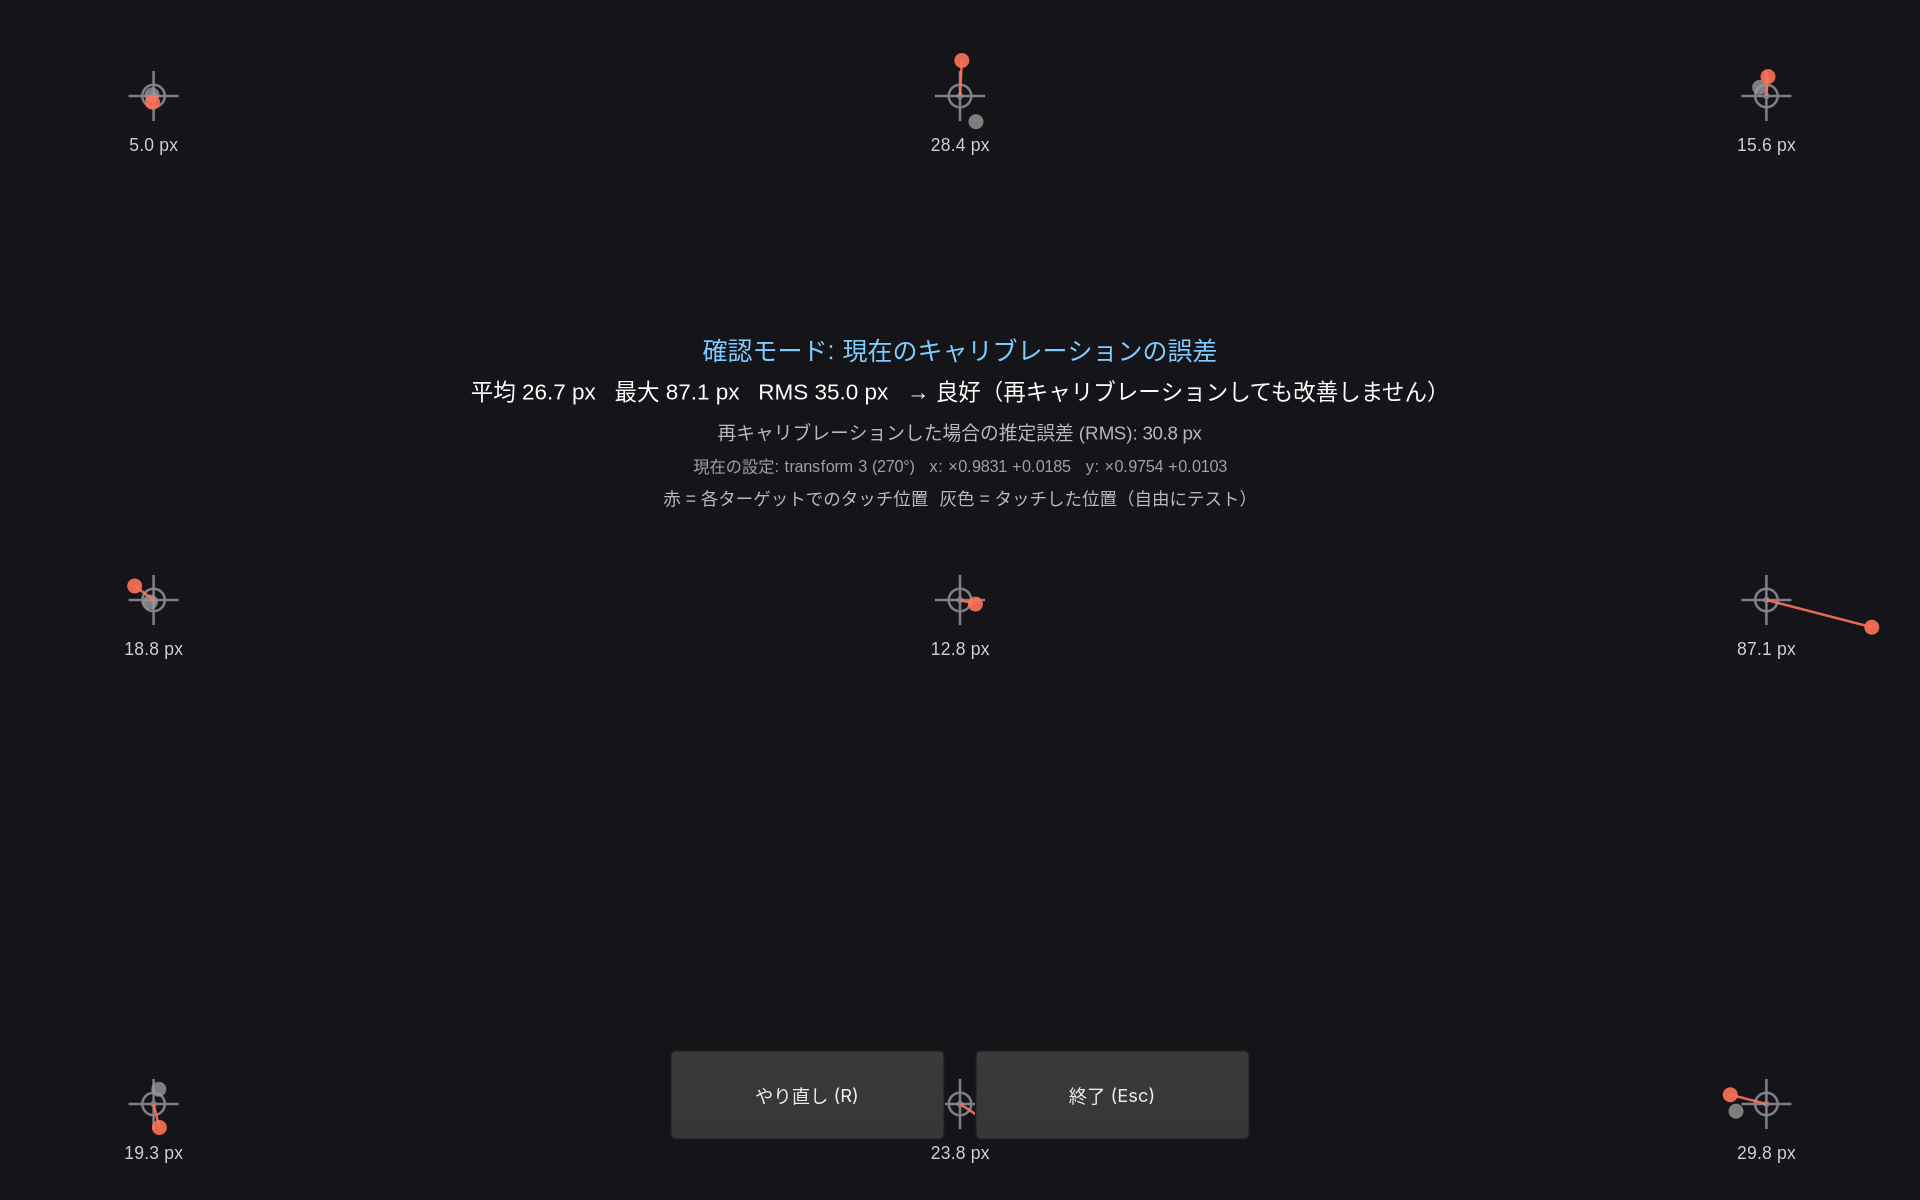
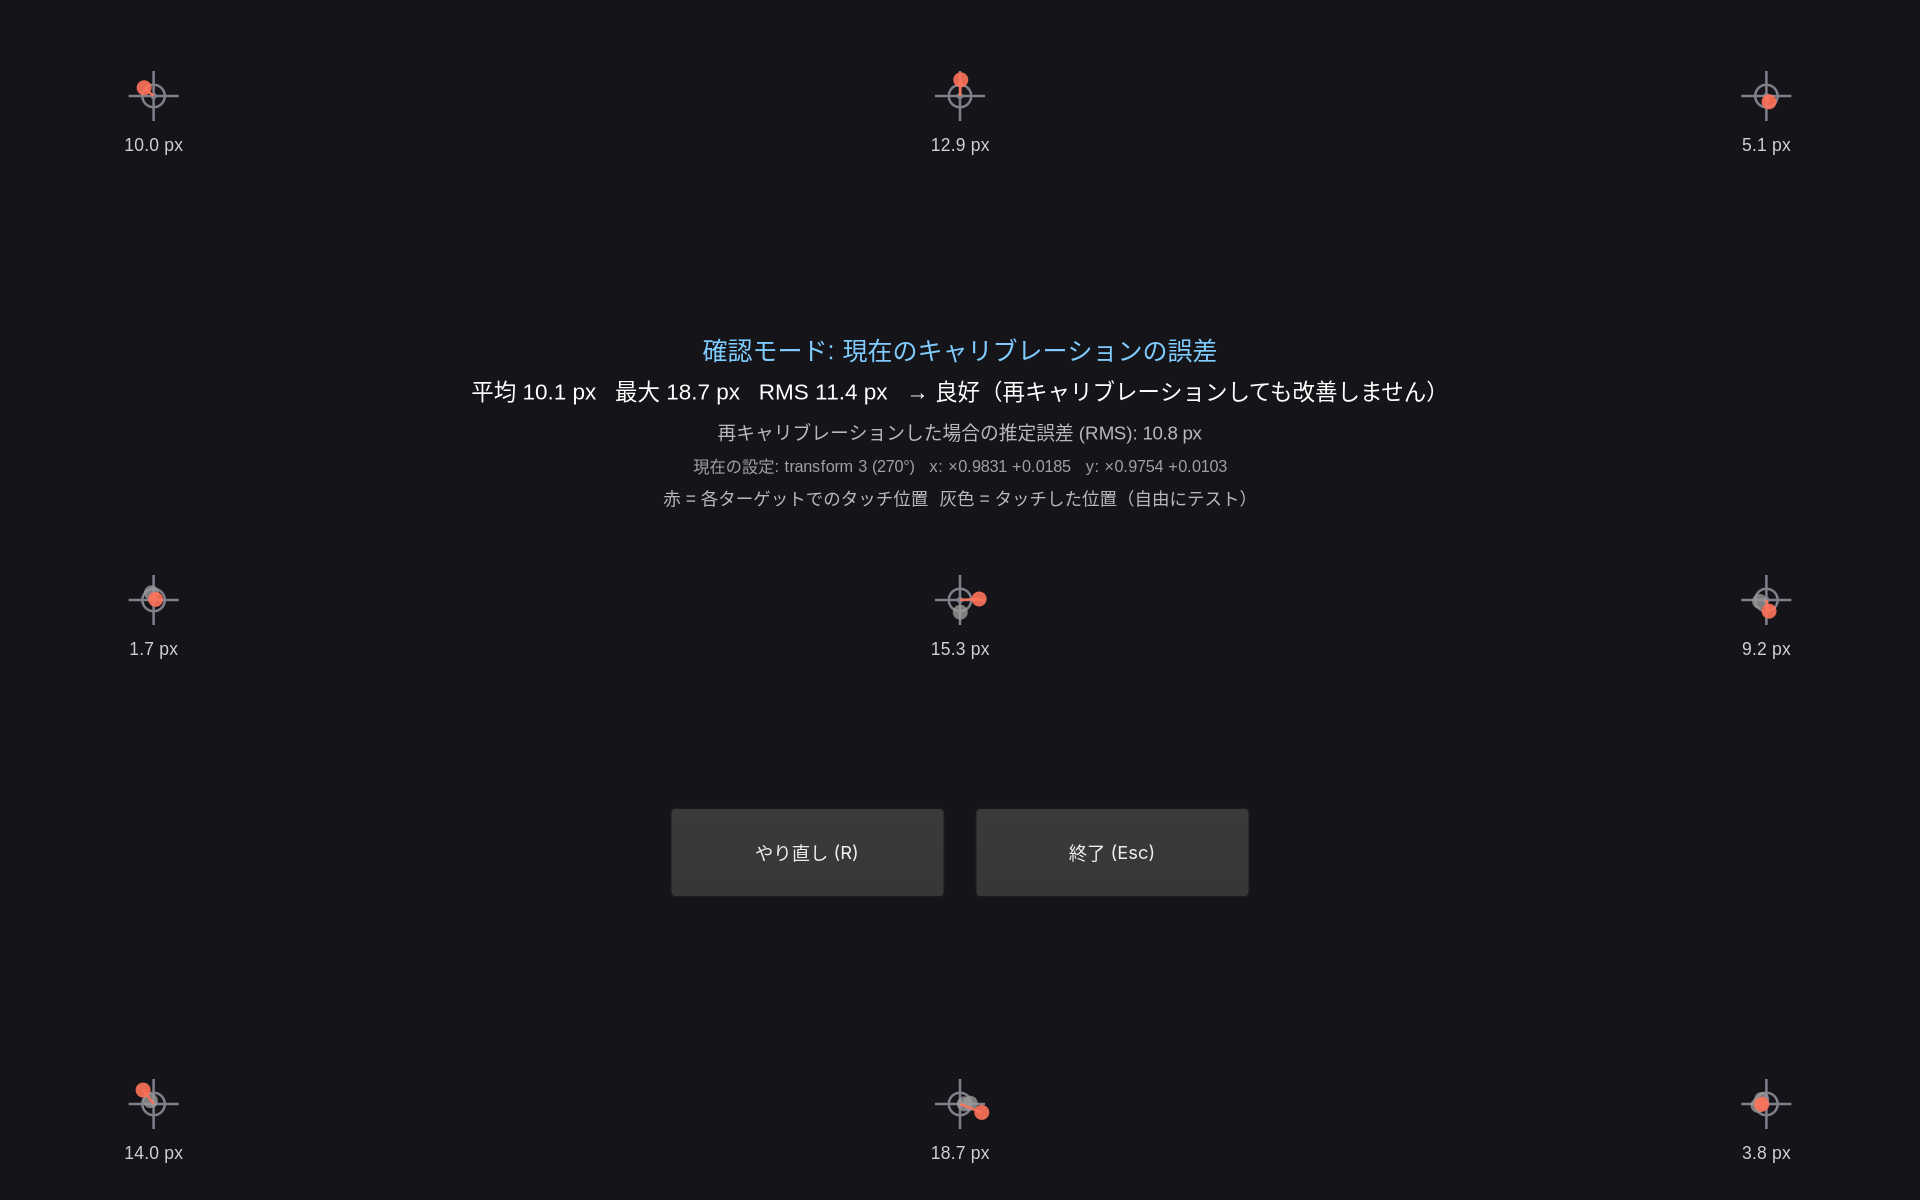
Add preview image and outlier notes to READMEs

diff --git a/README.md b/README.md
@@ -16,6 +16,8 @@ matrix even when `transform` isn't set, so a udev `LIBINPUT_CALIBRATION_MATRIX` 
 The tool therefore leaves rotation to Hyprland and does the fine correction below libinput
 (the axis ranges). A slight skew (shear) cannot be corrected.
 
+![Check mode screen](preview.png)
+
 ## Usage
 
 ```bash
@@ -39,6 +41,10 @@ error and the estimated error after recalibrating (also printed to stdout). Ther
 button. The verdict is based on how much a recalibration would gain, not on the absolute error
 ("Good" when the gain is under 2 px and under 25% of the current RMS): finger touches scatter by
 a few millimeters, which no correction can remove.
+
+A touch that the other touches' fit misses by more than 40 px (and 3× that fit's own error) is
+treated as a slip: its target is circled in yellow and you are asked to retry. Use `--points 9`
+for this; with 5 points only about half of the slips can be told apart.
 
 The UI language is set with `--lang`. Without it, Japanese is used when `LC_ALL` /
 `LC_MESSAGES` / `LANG` starts with `ja`, English otherwise.
